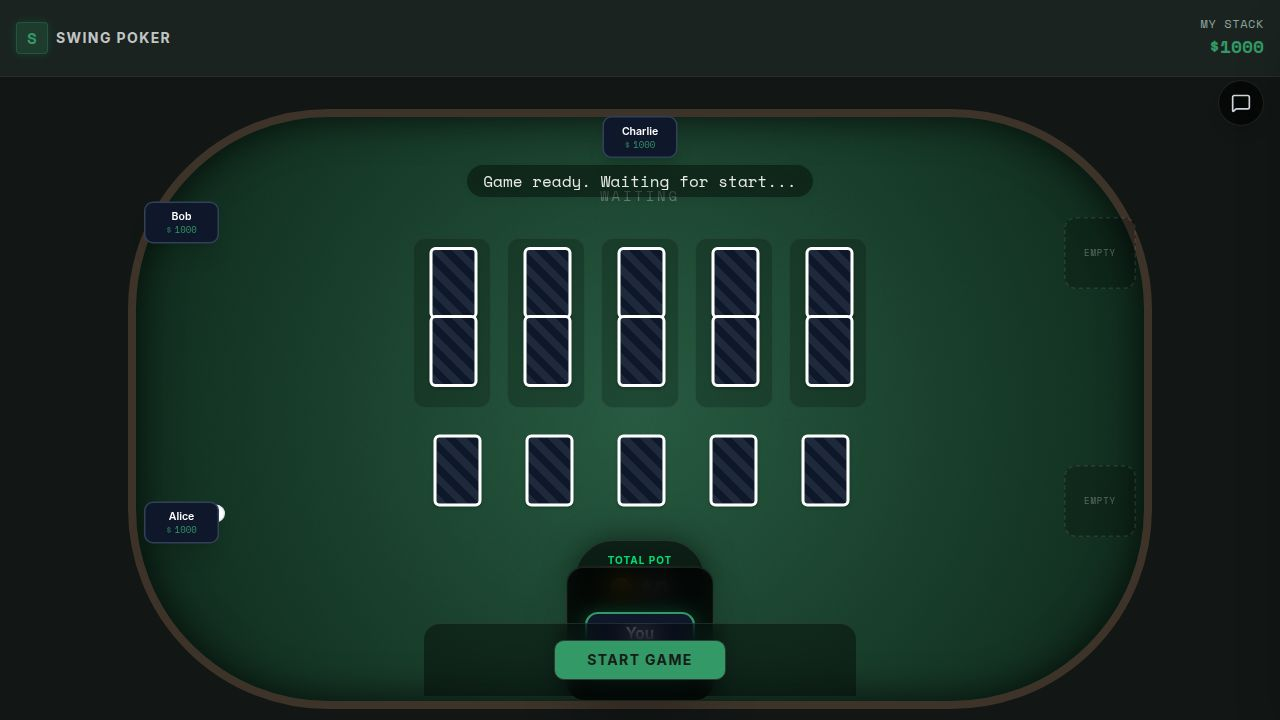
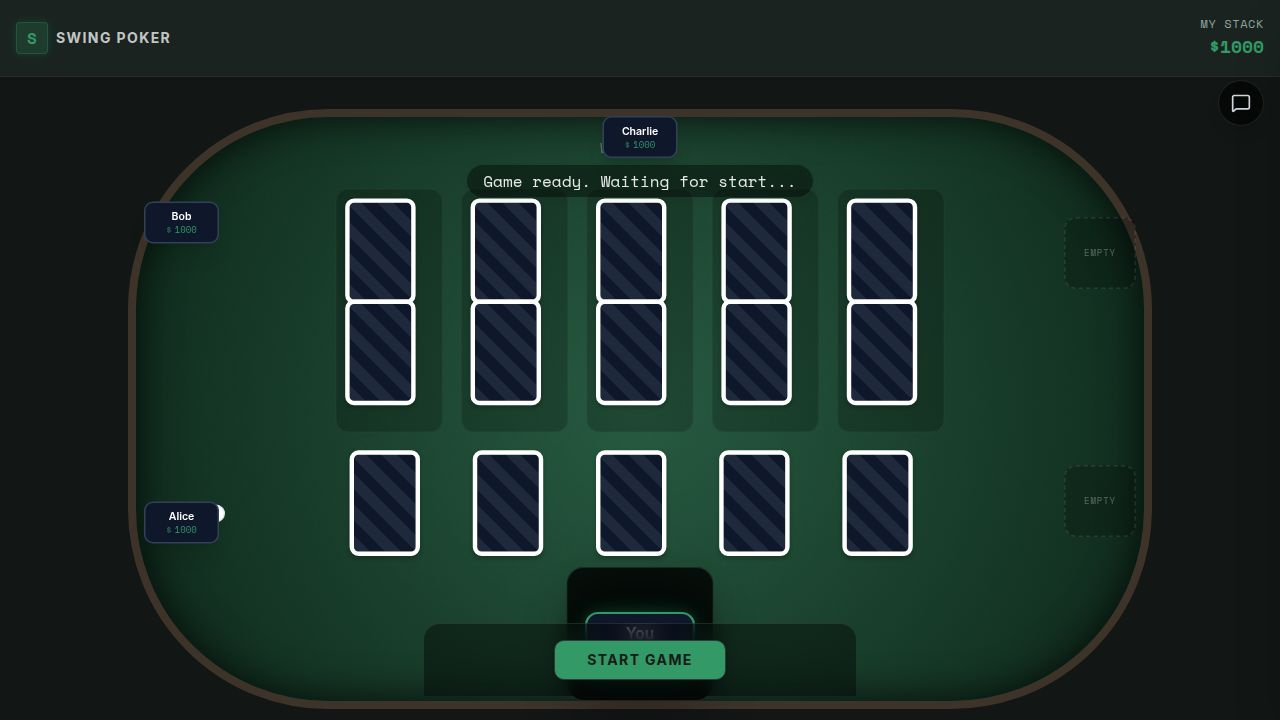
Make community cards larger for better visibility
Increase the size of community cards displayed on the game table by adjusting CSS styles in `GameTable.tsx` to improve readability.

Replit-Commit-Author: Agent
Replit-Commit-Session-Id: ccf41ca4-639f-44b8-9bf5-a37e8cb53bc9
Replit-Commit-Checkpoint-Type: full_checkpoint
Replit-Commit-Event-Id: 5c77e7f0-4c64-409f-8208-8d0024c409b7
Replit-Commit-Screenshot-Url: https://storage.googleapis.com/screenshot-production-us-central1/b30810ef-c64c-449c-a8ce-6b19686a9135/ccf41ca4-639f-44b8-9bf5-a37e8cb53bc9/5itjJ3F
Replit-Helium-Checkpoint-Created: true

Changed region(s): [[0.25, 0.2444, 0.7188, 0.7944]]

diff --git a/client/src/components/game/GameTable.tsx b/client/src/components/game/GameTable.tsx
@@ -56,18 +56,18 @@ export function GameTable({ gameState, myId, selectedCardIndices, onCardClick, s
           </div>
           
           {/* 15-Card Community Board */}
-          <div className="flex flex-col items-center gap-2 sm:gap-4 mb-4 sm:mb-8 scale-75 sm:scale-100 origin-center pointer-events-auto">
+          <div className="flex flex-col items-center gap-4 sm:gap-8 mb-6 sm:mb-12 origin-center pointer-events-auto mt-16">
             {/* Top Row: 5 Pairs */}
-            <div className="flex gap-2 sm:gap-4">
+            <div className="flex gap-2 sm:gap-5">
               {Array.from({ length: 5 }).map((_, colIndex) => (
-                <div key={`pair-${colIndex}`} className="flex flex-col gap-1 bg-black/20 p-1 sm:p-2 rounded-lg border border-white/5">
-                  <div className="scale-[0.6] sm:scale-75 origin-top w-[42px] sm:w-[60px] h-[60px] sm:h-[84px] mb-[-24px] sm:mb-[-20px]">
+                <div key={`pair-${colIndex}`} className="flex flex-col gap-2 bg-black/30 p-2 sm:p-3 rounded-xl border border-white/10 shadow-inner">
+                  <div className="w-[56px] sm:w-[90px] h-[78px] sm:h-[126px] mb-[-30px] sm:mb-[-45px]">
                     <PlayingCard 
                       card={gameState.communityCards[colIndex * 2]} 
                       selected={gameState.phase === 'SHOWDOWN' && gameState.players.some(p => p.score?.highEval?.usedCommunityCardIndices.includes(colIndex * 2) || p.score?.lowEval?.usedCommunityCardIndices.includes(colIndex * 2))}
                     />
                   </div>
-                  <div className="scale-[0.6] sm:scale-75 origin-top w-[42px] sm:w-[60px] h-[60px] sm:h-[84px]">
+                  <div className="w-[56px] sm:w-[90px] h-[78px] sm:h-[126px]">
                     <PlayingCard 
                       card={gameState.communityCards[colIndex * 2 + 1]} 
                       selected={gameState.phase === 'SHOWDOWN' && gameState.players.some(p => p.score?.highEval?.usedCommunityCardIndices.includes(colIndex * 2 + 1) || p.score?.lowEval?.usedCommunityCardIndices.includes(colIndex * 2 + 1))}
@@ -78,10 +78,10 @@ export function GameTable({ gameState, myId, selectedCardIndices, onCardClick, s
             </div>
             
             {/* Bottom Row: 5 Singles */}
-            <div className="flex gap-2 sm:gap-4 px-1 sm:px-2">
+            <div className="flex gap-2 sm:gap-5 px-2 sm:px-4 mt-2">
               {Array.from({ length: 5 }).map((_, colIndex) => (
-                <div key={`single-${colIndex}`} className="flex justify-center w-[50px] sm:w-[76px]">
-                  <div className="scale-[0.6] sm:scale-75 origin-center w-[42px] sm:w-[60px] h-[60px] sm:h-[84px]">
+                <div key={`single-${colIndex}`} className="flex justify-center w-[72px] sm:w-[114px]">
+                  <div className="w-[56px] sm:w-[90px] h-[78px] sm:h-[126px]">
                     <PlayingCard 
                       card={gameState.communityCards[10 + colIndex]} 
                       selected={gameState.phase === 'SHOWDOWN' && gameState.players.some(p => p.score?.highEval?.usedCommunityCardIndices.includes(10 + colIndex) || p.score?.lowEval?.usedCommunityCardIndices.includes(10 + colIndex))}
